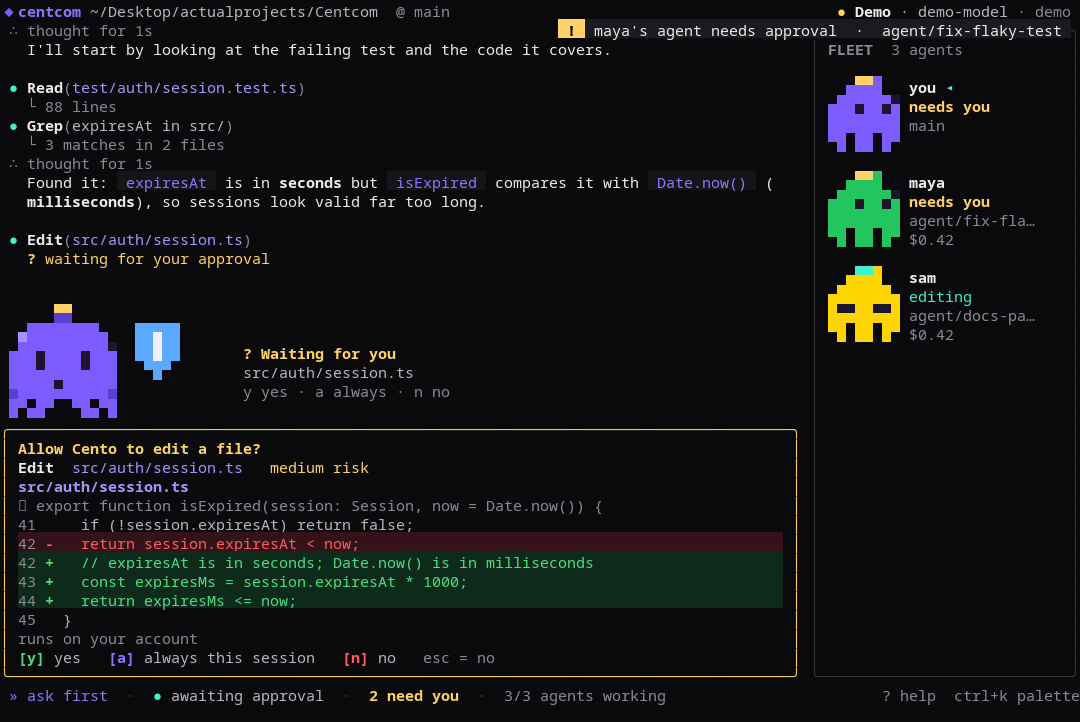
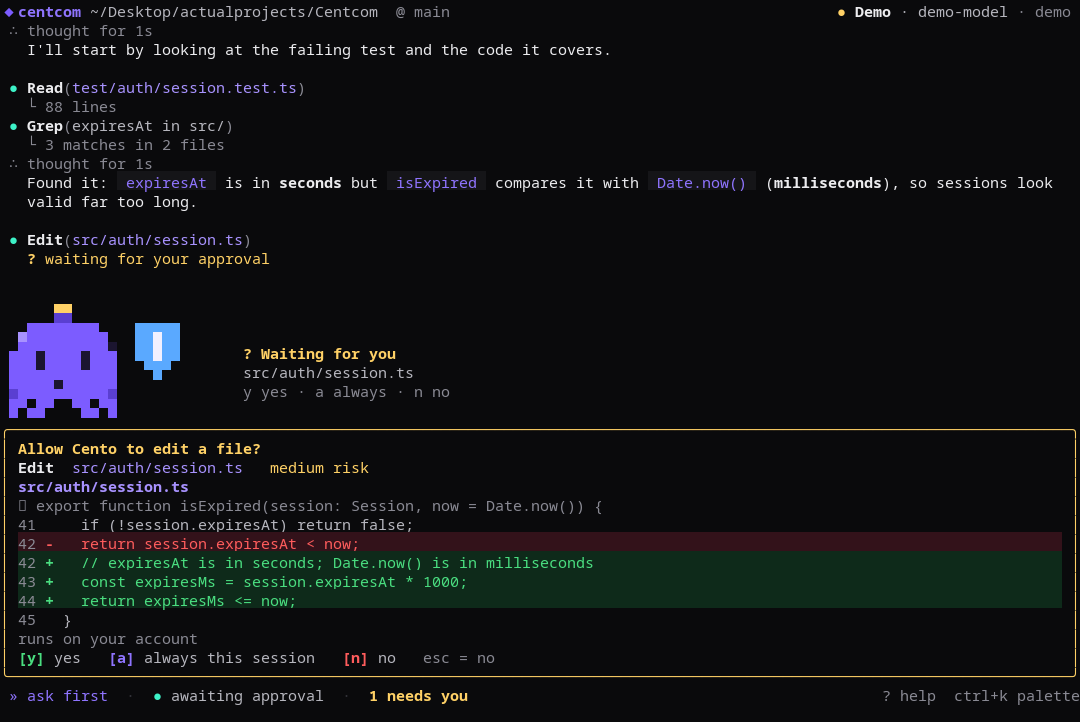
Docs and screenshots: solo session shows one Cento

diff --git a/site/src/docs.html b/site/src/docs.html
@@ -59,7 +59,7 @@ pnpm web:app     # same, as a chromeless app window</code></pre>
 <p>Pick a folder, choose Claude Code or Codex, then <strong>Start on web</strong> or <strong>Start as app</strong>.</p></section>
 
 <section id="terminal"><h2>Terminal app</h2>
-<p>The layout adapts to your terminal size. At 120 columns and 34 rows or more you get the large Cento, the fleet panel and the full transcript. Smaller windows get a small Cento, then none, and the minimum usable size is 60 by 14.</p>
+<p>The layout adapts to your terminal size. At 120 columns and 34 rows or more you get the large Cento and the full transcript. A panel listing everyone in the session appears only when more than one person or agent has joined. Smaller windows get a small Cento, then none, and the minimum usable size is 60 by 14.</p>
 <ul><li><strong>Transcript.</strong> Your messages, streamed replies with markdown, thinking summaries, and tool calls with results and diffs. It stays put when you scroll up and shows how many new lines arrived.</li>
 <li><strong>Live strip.</strong> Cento, the current activity, elapsed time and tokens.</li>
 <li><strong>Prompt.</strong> Multi-line input, history, paste, and a slash-command popup. End a line with <code>\</code> and press <kbd>Enter</kbd> for a new line.</li>
@@ -70,7 +70,7 @@ pnpm web:app     # same, as a chromeless app window</code></pre>
 <table><thead><tr><th>Key</th><th>Action</th></tr></thead><tbody>
 <tr><td><kbd>Enter</kbd></td><td>Send</td></tr><tr><td><kbd>ctrl</kbd>+<kbd>j</kbd></td><td>New line</td></tr><tr><td><kbd>Esc</kbd></td><td>Interrupt the agent, or close a panel</td></tr>
 <tr><td><kbd>ctrl</kbd>+<kbd>c</kbd></td><td>Interrupt; press twice to quit</td></tr><tr><td><kbd>shift</kbd>+<kbd>tab</kbd></td><td>Cycle the permission mode</td></tr>
-<tr><td><kbd>ctrl</kbd>+<kbd>k</kbd></td><td>Command palette</td></tr><tr><td><kbd>ctrl</kbd>+<kbd>o</kbd></td><td>Choose the model</td></tr><tr><td><kbd>ctrl</kbd>+<kbd>t</kbd></td><td>Show or hide the fleet panel</td></tr>
+<tr><td><kbd>ctrl</kbd>+<kbd>k</kbd></td><td>Command palette</td></tr><tr><td><kbd>ctrl</kbd>+<kbd>o</kbd></td><td>Choose the model</td></tr><tr><td><kbd>ctrl</kbd>+<kbd>t</kbd></td><td>Show or hide the session panel (shown once others join)</td></tr>
 <tr><td><kbd>?</kbd></td><td>Help (when the prompt is empty)</td></tr><tr><td><kbd>PageUp</kbd> / <kbd>PageDown</kbd></td><td>Scroll the transcript</td></tr><tr><td><kbd>shift</kbd>+<kbd>↑</kbd> / <kbd>↓</kbd></td><td>Scroll three lines</td></tr>
 <tr><td><kbd>End</kbd></td><td>Jump to the latest message</td></tr><tr><td><kbd>↑</kbd> / <kbd>↓</kbd></td><td>Prompt history</td></tr>
 <tr><td><kbd>ctrl</kbd>+<kbd>a</kbd> / <kbd>e</kbd></td><td>Start / end of line</td></tr><tr><td><kbd>ctrl</kbd>+<kbd>w</kbd> / <kbd>u</kbd></td><td>Delete word / to line start</td></tr><tr><td><kbd>alt</kbd>+<kbd>b</kbd> / <kbd>f</kbd></td><td>Word left / right</td></tr>
@@ -84,7 +84,7 @@ pnpm web:app     # same, as a chromeless app window</code></pre>
 <ul><li><strong>Start on web</strong> opens the workspace in the current browser tab.</li><li><strong>Start as app</strong> opens a window with no tabs or address bar, using its own browser profile at <code>~/.centcom/app-profile</code>. It needs Chrome, Chromium, Brave or Edge. A packaged desktop app is on the plan.</li></ul>
 <p>Both views show the same running agent. Close the workspace with the back arrow; the agent session ends.</p>
 <h3>The workspace</h3>
-<ul><li>A composer with the model menu, permission-mode menu and auto-skills toggle built in.</li><li>Tool cards you can expand, with a spinner while running and a tag when waiting for you.</li><li>An approval card with the exact command or diff, and the same Allow, Always this session and Decline choices as the terminal.</li><li>A side panel with Cento and every agent's state. Hide it with <kbd>ctrl</kbd>+<kbd>b</kbd>.</li>
+<ul><li>A composer with the model menu, permission-mode menu and auto-skills toggle built in.</li><li>Tool cards you can expand, with a spinner while running and a tag when waiting for you.</li><li>An approval card with the exact command or diff, and the same Allow, Always this session and Decline choices as the terminal.</li><li>A side panel with your Cento and its state; when others join it also lists everyone in the session. Hide it with <kbd>ctrl</kbd>+<kbd>b</kbd>.</li>
 <li>A status bar with the context window, your session and weekly limits (with time until they reset), tokens, estimated cost, model and permission mode.</li>
 <li>A command palette (<kbd>ctrl</kbd>+<kbd>k</kbd>) for every command, model, mode and setting, a shortcuts screen (<kbd>?</kbd>), the Cento animation gallery (<code>/cento</code>), and a dark, light or system theme.</li>
 <li>Every slash command works in the browser exactly as in the terminal.</li></ul>
